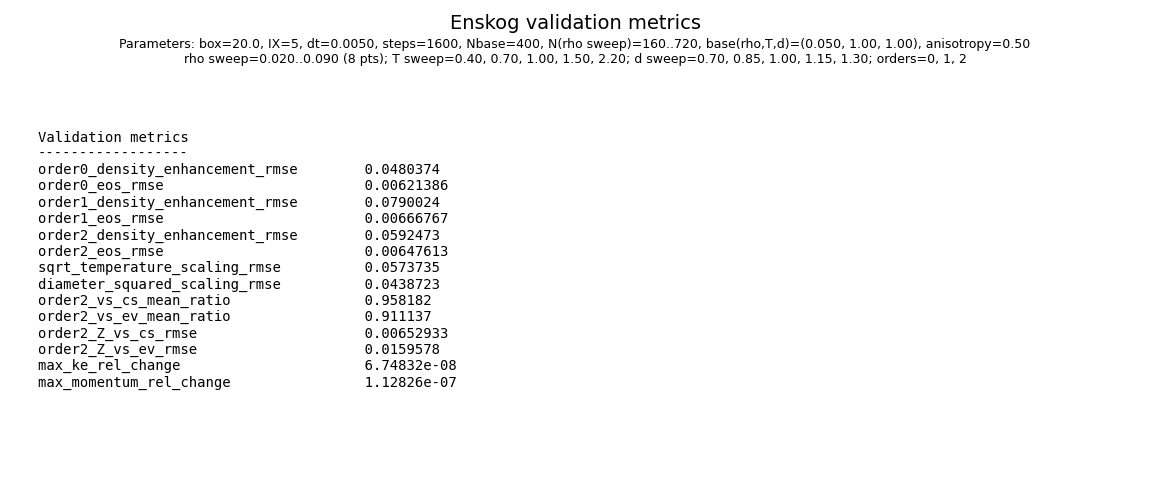
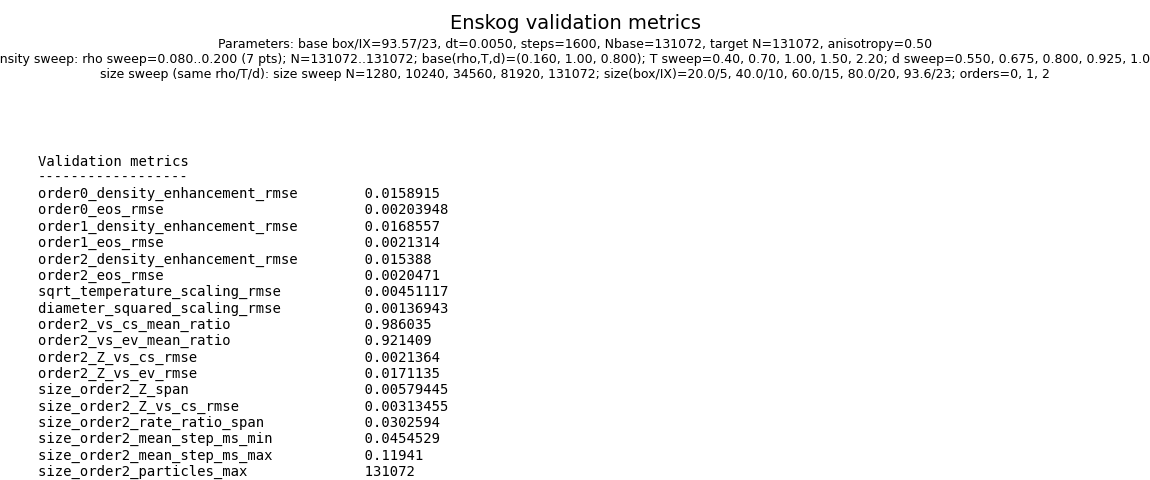
feat: switch Enskog validation to large-N sweeps
Move the main Enskog validation plots onto large-N runs around N=131072, tighten the dense-gas parameter regime, and clarify the shared figure subtitles.

Also add dedicated size-sweep and runtime-efficiency visualizations so finite-size behavior and throughput are shown separately from the main validation figure.

Changed region(s): [[0.0304, 0.2812, 0.2739, 1.0], [0.0, 0.0625, 0.9739, 0.1875], [0.3043, 0.3438, 0.3957, 1.0]]

diff --git a/DSMC/enskog_validate.py b/DSMC/enskog_validate.py
@@ -15,22 +15,50 @@ BOX = 20.0
 IX = 5
 DT = 0.005
 STEPS = 1600
-BASE_RHO = 0.05
+BASE_RHO = 0.16
 BASE_T = 1.0
-BASE_D = 1.0
+BASE_D = 0.8
 BASE_ANISOTROPY = 0.5
+TARGET_SWEEP_N = 131072
+TARGET_CELL_SIZE = 4.0
 
-DENSITY_VALUES = np.round(np.linspace(0.02, 0.09, 8), 3)
+DENSITY_VALUES = np.round(np.linspace(0.08, 0.20, 7), 3)
 TEMPERATURE_VALUES = [0.4, 0.7, 1.0, 1.5, 2.2]
-DIAMETER_VALUES = [0.7, 0.85, 1.0, 1.15, 1.3]
+DIAMETER_VALUES = [0.55, 0.675, 0.8, 0.925, 1.05]
 ORDER_VALUES = [0, 1, 2]
+SIZE_SWEEP = [
+    (20.0, 5),
+    (40.0, 10),
+    (60.0, 15),
+    (80.0, 20),
+    (((TARGET_SWEEP_N / BASE_RHO) ** (1.0 / 3.0)), 23),
+]
 
 
 def compile_code():
     subprocess.run(["nvcc", "-O3", "-arch=sm_89", "-std=c++17", SRC_FILE, "-o", BIN_FILE], check=True)
 
 
-def run_case(name, order=0, rho=BASE_RHO, temp=BASE_T, diameter=BASE_D, steps=STEPS, anisotropy=BASE_ANISOTROPY):
+def sweep_geometry_for_density(rho, target_n=TARGET_SWEEP_N):
+    box = (target_n / float(rho)) ** (1.0 / 3.0)
+    ix = max(1, int(round(box / TARGET_CELL_SIZE)))
+    return float(box), ix
+
+
+BASE_SWEEP_BOX, BASE_SWEEP_IX = sweep_geometry_for_density(BASE_RHO)
+
+
+def run_case(
+    name,
+    order=0,
+    rho=BASE_RHO,
+    temp=BASE_T,
+    diameter=BASE_D,
+    steps=STEPS,
+    anisotropy=BASE_ANISOTROPY,
+    box=BOX,
+    ix=IX,
+):
     RESULT_DIR.mkdir(exist_ok=True)
     prefix = RESULT_DIR / name
     cmd = [
@@ -41,8 +69,8 @@ def run_case(name, order=0, rho=BASE_RHO, temp=BASE_T, diameter=BASE_D, steps=ST
         str(temp),
         str(diameter),
         str(steps),
-        str(BOX),
-        str(IX),
+        str(box),
+        str(ix),
         str(DT),
         str(anisotropy),
     ]
@@ -51,7 +79,17 @@ def run_case(name, order=0, rho=BASE_RHO, temp=BASE_T, diameter=BASE_D, steps=ST
     ts = pd.read_csv(f"{prefix}_timeseries.csv")
     final_energy = pd.read_csv(f"{prefix}_final_energy.csv")
     row = summary.iloc[0].to_dict()
-    row.update({"case": name, "rho_input": rho, "temp_input": temp, "diameter_input": diameter, "steps": steps})
+    row.update(
+        {
+            "case": name,
+            "rho_input": rho,
+            "temp_input": temp,
+            "diameter_input": diameter,
+            "steps": steps,
+            "box_input": box,
+            "ix_input": ix,
+        }
+    )
     return row, ts, final_energy
 
 
@@ -66,27 +104,62 @@ def build_suite():
     energy_samples = {}
 
     for rho in DENSITY_VALUES:
+        sweep_box, sweep_ix = sweep_geometry_for_density(rho)
         for order in ORDER_VALUES:
-            row, ts, final_energy = run_case(f"rho_order{order}_{rho:.3f}", order=order, rho=float(rho))
+            row, ts, final_energy = run_case(
+                f"rho_order{order}_{rho:.3f}",
+                order=order,
+                rho=float(rho),
+                box=sweep_box,
+                ix=sweep_ix,
+            )
             cases.append(row)
             timeseries[row["case"]] = ts
             energy_samples[row["case"]] = final_energy["Energy"].to_numpy()
 
     for temp in TEMPERATURE_VALUES:
-        row, ts, final_energy = run_case(f"temp_order0_{temp:.2f}", order=0, temp=temp)
+        row, ts, final_energy = run_case(
+            f"temp_order0_{temp:.2f}",
+            order=0,
+            temp=temp,
+            box=BASE_SWEEP_BOX,
+            ix=BASE_SWEEP_IX,
+        )
         cases.append(row)
         timeseries[row["case"]] = ts
         energy_samples[row["case"]] = final_energy["Energy"].to_numpy()
 
     for diameter in DIAMETER_VALUES:
         for order in ORDER_VALUES:
-            row, ts, final_energy = run_case(f"diam_order{order}_{diameter:.2f}", order=order, diameter=diameter)
+            row, ts, final_energy = run_case(
+                f"diam_order{order}_{diameter:.2f}",
+                order=order,
+                diameter=diameter,
+                box=BASE_SWEEP_BOX,
+                ix=BASE_SWEEP_IX,
+            )
             cases.append(row)
             timeseries[row["case"]] = ts
             energy_samples[row["case"]] = final_energy["Energy"].to_numpy()
 
     for order in ORDER_VALUES:
-        row, ts, final_energy = run_case(f"order_{order}", order=order)
+        row, ts, final_energy = run_case(
+            f"order_{order}",
+            order=order,
+            box=BASE_SWEEP_BOX,
+            ix=BASE_SWEEP_IX,
+        )
+        cases.append(row)
+        timeseries[row["case"]] = ts
+        energy_samples[row["case"]] = final_energy["Energy"].to_numpy()
+
+    for box, ix in SIZE_SWEEP:
+        row, ts, final_energy = run_case(
+            f"size_order2_box{box:.0f}_ix{ix}",
+            order=2,
+            box=box,
+            ix=ix,
+        )
         cases.append(row)
         timeseries[row["case"]] = ts
         energy_samples[row["case"]] = final_energy["Energy"].to_numpy()
@@ -160,6 +233,41 @@ def add_scaling_metrics(df):
     order2 = df[df["case"].str.startswith("rho_order2_")]
     metrics.append({"metric": "order2_Z_vs_cs_rmse", "value": float(np.sqrt(np.mean((order2["Z_measured"] - order2["Z_inf_cs"]) ** 2)))})
     metrics.append({"metric": "order2_Z_vs_ev_rmse", "value": float(np.sqrt(np.mean((order2["Z_measured"] - order2["Z_inf_ev"]) ** 2)))})
+    size = df[df["case"].str.startswith("size_order2_")].sort_values("N")
+    if len(size) >= 2:
+        size_summary = size[
+            [
+                "case",
+                "N",
+                "Box",
+                "IX",
+                "CellSize",
+                "MeanStepMs",
+                "ParticleStepsPerSec",
+                "Z_measured",
+                "Z_inf_cs",
+                "rate_ratio_measured_inf_cs",
+                "ke_rel_change",
+            ]
+        ].copy()
+        size_summary["Z_rel_err_cs"] = (size_summary["Z_measured"] - size["Z_inf_cs"].to_numpy()) / size["Z_inf_cs"].to_numpy()
+        size_summary.to_csv(RESULT_DIR / "enskog_size_validation.csv", index=False)
+        metrics.append({"metric": "size_order2_Z_span", "value": float(size["Z_measured"].max() - size["Z_measured"].min())})
+        metrics.append(
+            {
+                "metric": "size_order2_Z_vs_cs_rmse",
+                "value": float(np.sqrt(np.mean((size["Z_measured"] - size["Z_inf_cs"]) ** 2))),
+            }
+        )
+        metrics.append(
+            {
+                "metric": "size_order2_rate_ratio_span",
+                "value": float(size["rate_ratio_measured_inf_cs"].max() - size["rate_ratio_measured_inf_cs"].min()),
+            }
+        )
+        metrics.append({"metric": "size_order2_mean_step_ms_min", "value": float(size["MeanStepMs"].min())})
+        metrics.append({"metric": "size_order2_mean_step_ms_max", "value": float(size["MeanStepMs"].max())})
+        metrics.append({"metric": "size_order2_particles_max", "value": float(size["N"].max())})
     metrics.append({"metric": "max_ke_rel_change", "value": float(df["ke_rel_change"].max())})
     metrics.append({"metric": "max_momentum_rel_change", "value": float(df["momentum_rel_change"].max())})
 
@@ -291,28 +399,139 @@ def plot_ke_trace_panel(ax, df, timeseries):
     ax.legend(fontsize=8)
 
 
+def plot_size_validation(df):
+    size = df[df["case"].str.startswith("size_order2_")].sort_values("N")
+    if size.empty:
+        return
+
+    fig, axes = plt.subplots(1, 3, figsize=(16, 4.8))
+    fig.suptitle("Enskog size-sweep validation", fontsize=15, y=0.98)
+    fig.text(0.5, 0.91, format_parameter_header(), ha="center", va="top", fontsize=8.5)
+
+    ax = axes[0]
+    ax.plot(size["N"], size["Z_measured"], "o-", label="Measured Z")
+    ax.plot(size["N"], size["Z_inf_cs"], "k--", label=r"CS EOS $Z_\infty$")
+    ax.plot(size["N"], size["Z_inf_ev"], "k:", label=r"Excluded-volume EOS $Z_\infty$")
+    ax.set_title("EOS vs system size")
+    ax.set_xlabel("N")
+    ax.set_ylabel("Z")
+    ax.grid(True, alpha=0.3)
+    ax.legend(fontsize=8)
+
+    ax = axes[1]
+    ax.plot(size["N"], size["rate_ratio_measured_inf_cs"], "o-", label="Rate / CS reference")
+    ax.axhline(1.0, color="k", linestyle="--", linewidth=1.0)
+    ax.set_title("Collision-rate convergence")
+    ax.set_xlabel("N")
+    ax.set_ylabel(r"$\nu / \nu_{\mathrm{CS}}$")
+    ax.grid(True, alpha=0.3)
+    ax.legend(fontsize=8)
+
+    ax = axes[2]
+    ax.plot(size["N"], size["MeanStepMs"], "o-", label="Mean step time")
+    ax2 = ax.twinx()
+    ax2.plot(size["N"], size["ParticleStepsPerSec"] / 1.0e6, "s--", color="C1", label="Particle steps/s")
+    ax.set_title("Runtime vs system size")
+    ax.set_xlabel("N")
+    ax.set_ylabel("ms/step")
+    ax2.set_ylabel(r"particle-steps/s ($10^6$)")
+    ax.grid(True, alpha=0.3)
+    lines1, labels1 = ax.get_legend_handles_labels()
+    lines2, labels2 = ax2.get_legend_handles_labels()
+    ax.legend(lines1 + lines2, labels1 + labels2, fontsize=8, loc="upper left")
+
+    fig.tight_layout(rect=(0.02, 0.04, 0.98, 0.83))
+    fig.savefig(RESULT_DIR / "enskog_size_validation.png")
+
+
+def plot_runtime_efficiency(df):
+    fig, axes = plt.subplots(2, 3, figsize=(17, 9.5))
+    fig.suptitle("Enskog runtime efficiency", fontsize=15, y=0.98)
+    fig.text(0.5, 0.915, format_parameter_header(), ha="center", va="top", fontsize=8.5)
+
+    ax = axes[0, 0]
+    for order, marker in [(0, "o"), (1, "s"), (2, "^")]:
+        sub = df[df["case"].str.startswith(f"rho_order{order}_")].sort_values("rho_input")
+        ax.plot(sub["rho_input"], sub["MeanStepMs"], marker + "-", label=f"order {order}")
+    ax.set_title("Mean step time vs density")
+    ax.set_xlabel(r"$\rho$")
+    ax.set_ylabel("ms/step")
+    ax.grid(True, alpha=0.3)
+    ax.legend(fontsize=8)
+
+    ax = axes[0, 1]
+    temp = df[df["case"].str.startswith("temp_order0_")].sort_values("temp_input")
+    ax.plot(temp["temp_input"], temp["MeanStepMs"], "o-")
+    ax.set_title("Mean step time vs temperature")
+    ax.set_xlabel("T")
+    ax.set_ylabel("ms/step")
+    ax.grid(True, alpha=0.3)
+
+    ax = axes[0, 2]
+    for order, marker in [(0, "o"), (1, "s"), (2, "^")]:
+        sub = df[df["case"].str.startswith(f"diam_order{order}_")].sort_values("diameter_input")
+        ax.plot(sub["diameter_input"], sub["MeanStepMs"], marker + "-", label=f"order {order}")
+    ax.set_title("Mean step time vs diameter")
+    ax.set_xlabel("diameter")
+    ax.set_ylabel("ms/step")
+    ax.grid(True, alpha=0.3)
+    ax.legend(fontsize=8)
+
+    ax = axes[1, 0]
+    order = df[df["case"].str.startswith("order_")].sort_values("Order")
+    ax.plot(order["Order"], order["MeanStepMs"], "o-")
+    ax.set_title("Mean step time vs Enskog order")
+    ax.set_xlabel("order")
+    ax.set_ylabel("ms/step")
+    ax.grid(True, alpha=0.3)
+
+    ax = axes[1, 1]
+    size = df[df["case"].str.startswith("size_order2_")].sort_values("N")
+    ax.plot(size["N"], size["MeanStepMs"], "o-", label="Mean step time")
+    ax.set_title("Mean step time vs system size")
+    ax.set_xlabel("N")
+    ax.set_ylabel("ms/step")
+    ax.grid(True, alpha=0.3)
+    ax.legend(fontsize=8)
+
+    ax = axes[1, 2]
+    ax.plot(size["N"], size["ParticleStepsPerSec"] / 1.0e6, "s-", color="C1")
+    ax.set_title("Throughput vs system size")
+    ax.set_xlabel("N")
+    ax.set_ylabel(r"particle-steps/s ($10^6$)")
+    ax.grid(True, alpha=0.3)
+
+    fig.tight_layout(rect=(0.02, 0.04, 0.98, 0.84))
+    fig.savefig(RESULT_DIR / "enskog_runtime_efficiency.png")
+
+
 def format_parameter_header():
-    base_n = int(round(BASE_RHO * BOX ** 3))
-    density_n_min = int(round(float(DENSITY_VALUES[0]) * BOX ** 3))
-    density_n_max = int(round(float(DENSITY_VALUES[-1]) * BOX ** 3))
+    base_n = int(round(BASE_RHO * BASE_SWEEP_BOX ** 3))
+    density_n_values = [int(round(float(rho) * sweep_geometry_for_density(rho)[0] ** 3)) for rho in DENSITY_VALUES]
+    size_n_values = [int(round(BASE_RHO * box ** 3)) for box, _ in SIZE_SWEEP]
+    size_box_ix_text = ", ".join(f"{box:.1f}/{ix}" for box, ix in SIZE_SWEEP)
     density_text = f"rho sweep={DENSITY_VALUES[0]:.3f}..{DENSITY_VALUES[-1]:.3f} ({len(DENSITY_VALUES)} pts)"
     temp_text = "T sweep=" + ", ".join(f"{value:.2f}" for value in TEMPERATURE_VALUES)
-    diameter_text = "d sweep=" + ", ".join(f"{value:.2f}" for value in DIAMETER_VALUES)
+    diameter_text = "d sweep=" + ", ".join(f"{value:.3f}" for value in DIAMETER_VALUES)
     order_text = "orders=" + ", ".join(str(order) for order in ORDER_VALUES)
+    size_text = "size sweep N=" + ", ".join(str(value) for value in size_n_values)
     line1 = (
         "Parameters: "
-        f"box={BOX:.1f}, IX={IX}, dt={DT:.4f}, steps={STEPS}, "
-        f"Nbase={base_n}, N(rho sweep)={density_n_min}..{density_n_max}, "
-        f"base(rho,T,d)=({BASE_RHO:.3f}, {BASE_T:.2f}, {BASE_D:.2f}), anisotropy={BASE_ANISOTROPY:.2f}"
+        f"base box/IX={BASE_SWEEP_BOX:.2f}/{BASE_SWEEP_IX}, dt={DT:.4f}, steps={STEPS}, "
+        f"Nbase={base_n}, target N={TARGET_SWEEP_N}, anisotropy={BASE_ANISOTROPY:.2f}"
     )
-    line2 = f"{density_text}; {temp_text}; {diameter_text}; {order_text}"
-    return line1 + "\n" + line2
+    line2 = (
+        f"density sweep: {density_text}; N={min(density_n_values)}..{max(density_n_values)}; "
+        f"base(rho,T,d)=({BASE_RHO:.3f}, {BASE_T:.2f}, {BASE_D:.3f}); {temp_text}; {diameter_text}"
+    )
+    line3 = f"size sweep (same rho/T/d): {size_text}; size(box/IX)={size_box_ix_text}; {order_text}"
+    return line1 + "\n" + line2 + "\n" + line3
 
 
 def plot_results(df, timeseries, metrics_df, energy_samples):
     fig, axes = plt.subplots(3, 3, figsize=(18.5, 16.0))
     fig.suptitle("Enskog collision and EOS validation", fontsize=16, y=0.985)
-    fig.text(0.5, 0.945, format_parameter_header(), ha="center", va="top", fontsize=10)
+    fig.text(0.5, 0.93, format_parameter_header(), ha="center", va="top", fontsize=8.8)
 
     plot_density_panel(axes[0, 0], df)
     plot_eos_panel(axes[0, 1], df)
@@ -359,7 +578,7 @@ def plot_results(df, timeseries, metrics_df, energy_samples):
     ax = axes[2, 2]
     plot_ke_trace_panel(ax, df, timeseries)
 
-    fig.tight_layout(rect=(0.02, 0.05, 0.98, 0.92))
+    fig.tight_layout(rect=(0.02, 0.05, 0.98, 0.84))
     fig.savefig(RESULT_DIR / "enskog_validation.png")
 
     fig2, ax2 = plt.subplots(figsize=(11.5, 4.8))
@@ -370,7 +589,7 @@ def plot_results(df, timeseries, metrics_df, energy_samples):
     for _, row in metrics_df.iterrows():
         lines.append(f"{row['metric']:<38} {row['value']:.6g}")
     ax2.text(0.0, 1.0, "\n".join(lines), va="top", ha="left", family="monospace")
-    fig2.tight_layout(rect=(0.02, 0.04, 0.98, 0.83))
+    fig2.tight_layout(rect=(0.02, 0.04, 0.98, 0.78))
     fig2.savefig(RESULT_DIR / "enskog_validation_metrics.png")
 
 
@@ -380,8 +599,10 @@ def main():
     df, timeseries, energy_samples = build_suite()
     metrics_df = add_scaling_metrics(df)
     plot_results(df, timeseries, metrics_df, energy_samples)
+    plot_size_validation(df)
+    plot_runtime_efficiency(df)
     print(df[[
-        "case", "Order", "Eta", "MeasuredRate", "TheoryRateTrunc", "TheoryRateInfCS",
+        "case", "Order", "N", "MeanStepMs", "Eta", "MeasuredRate", "TheoryRateTrunc", "TheoryRateInfCS",
         "Z_measured", "Z_trunc", "Z_inf_cs", "rate_ratio_measured_trunc",
         "rate_ratio_measured_inf_cs", "ke_rel_change"
     ]].to_string(index=False))
